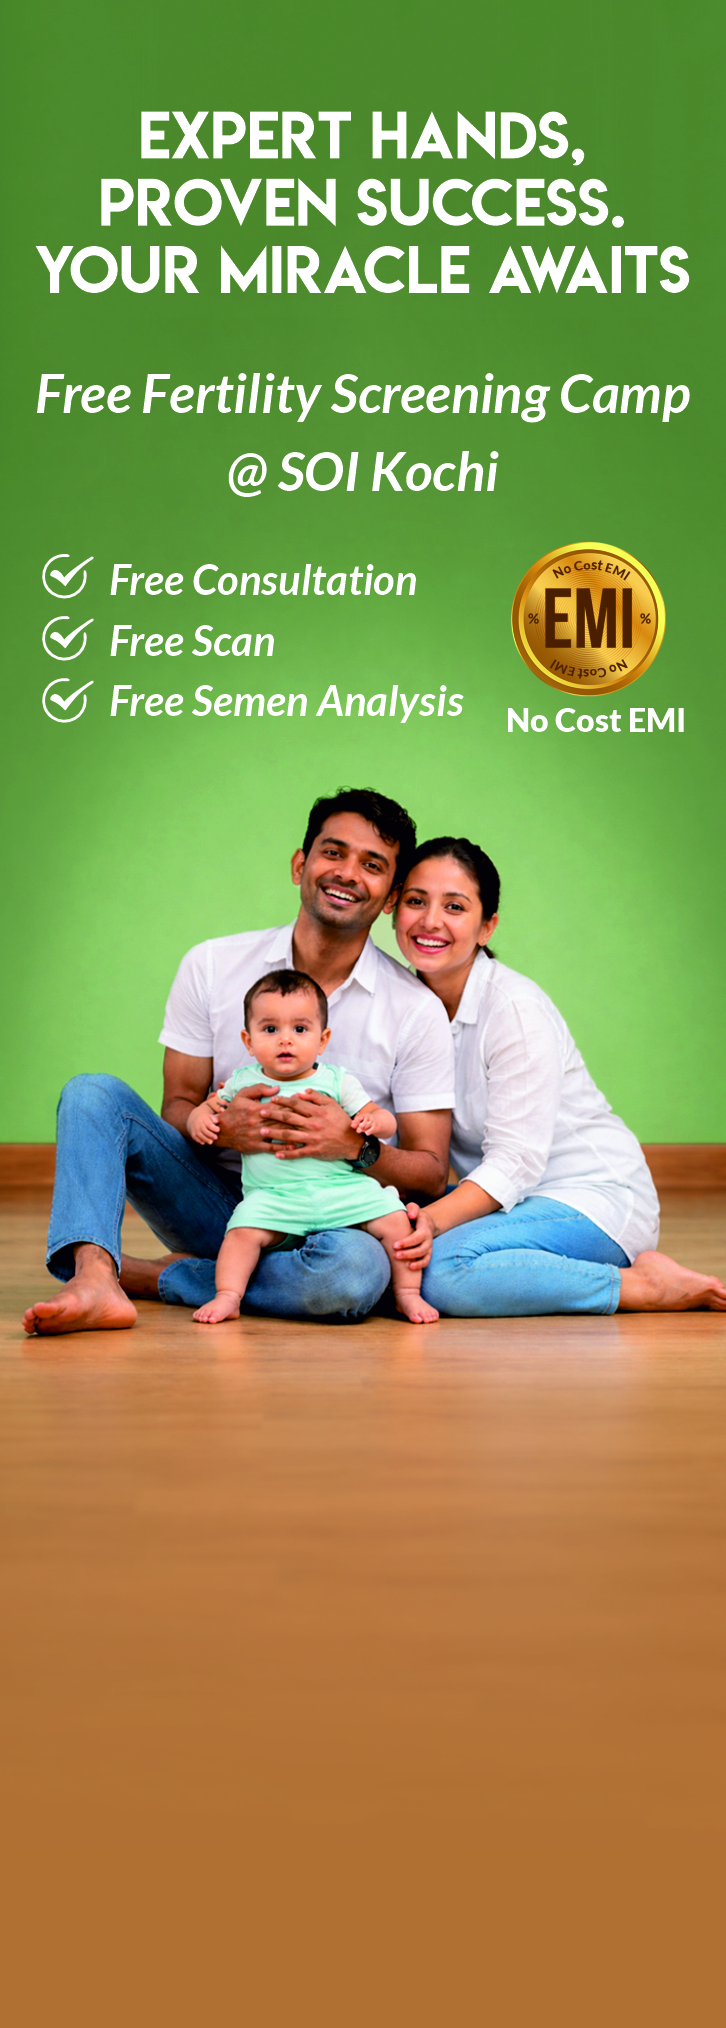
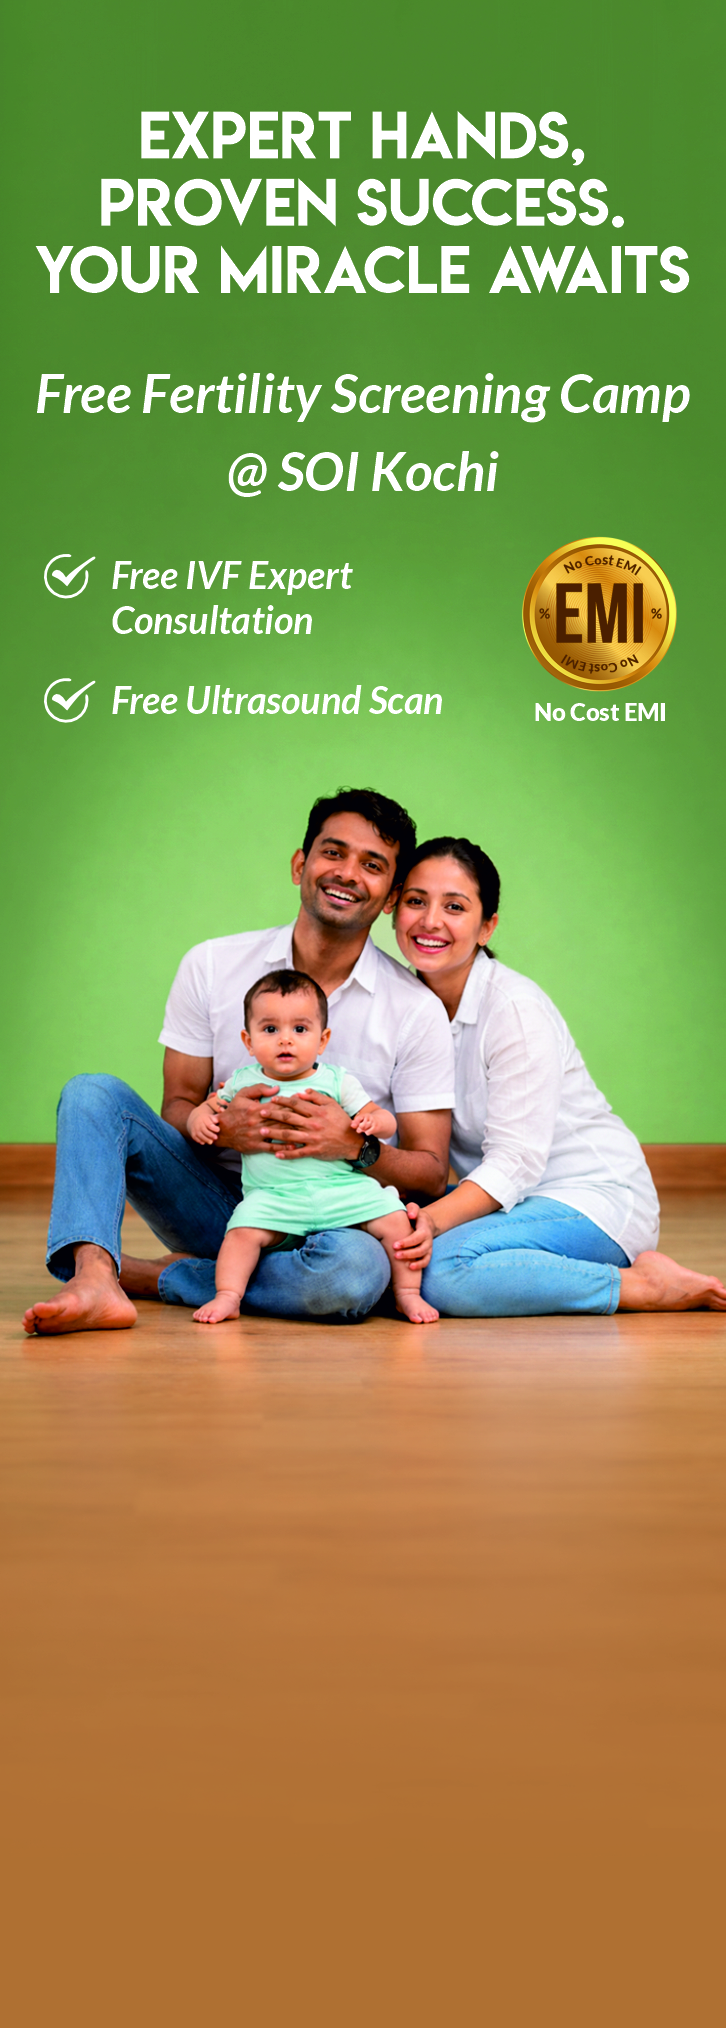
bn vbn

Changed region(s): [[0.1515, 0.2796, 0.6364, 0.3728], [0.697, 0.2485, 0.9394, 0.3728], [0.0606, 0.2796, 0.1212, 0.3728]]

diff --git a/app/best-ivf-clinic-in-delhi/delhicomponents/PackageIncludes.tsx b/app/best-ivf-clinic-in-delhi/delhicomponents/PackageIncludes.tsx
@@ -13,41 +13,41 @@ export default function PackageIncludes() {
         {/* Mobile: Single Card with both sections */}
         <div className="block md:hidden max-w-5xl mx-auto">
           <div className="bg-white rounded-2xl shadow-md p-8">
-            {/* Free Fertility Screening Camp Section */}
+            {/* Expert Fertility Screening Camp Section */}
             <div className="mb-8">
               <h3 className="text-xl font-semibold text-gray-900 mb-6">
-                Free Fertility Screening Camp
+                Expert Fertility Screening Camp
               </h3>
               <div className="space-y-4">
-                {/* Free Consultation */}
+                {/* Expert Consultation */}
                 <div className="flex items-center gap-4">
                   <div className="flex-shrink-0">
                     <Image
                       src="/gads/assets/image/icons/Tick 1.svg"
-                      alt="Free Consultation"
+                      alt="Expert Consultation"
                       width={48}
                       height={48}
                       className="w-12 h-12"
                     />
                   </div>
                   <span className="text-lg text-gray-700 font-medium">
-                    Free Consultation
+                    Expert Consultation
                   </span>
                 </div>
 
-                {/* Free Scan */}
+                {/* Expert Scan */}
                 <div className="flex items-center gap-4">
                   <div className="flex-shrink-0">
                     <Image
                       src="/gads/assets/image/icons/Tick 1.svg"
-                      alt="Free Scan"
+                      alt="Expert Scan"
                       width={48}
                       height={48}
                       className="w-12 h-12"
                     />
                   </div>
                   <span className="text-lg text-gray-700 font-medium">
-                    Free Scan
+                    Expert Scan
                   </span>
                 </div>
               </div>
@@ -75,21 +75,21 @@ export default function PackageIncludes() {
                   </span>
                 </div>
 
-                {/* Free Semen Analysis */}
-                <div className="flex items-center gap-4">
+                {/* Expert Semen Analysis */}
+                {/* <div className="flex items-center gap-4">
                   <div className="flex-shrink-0">
                     <Image
                       src="/gads/assets/image/icons/Tick 1.svg"
-                      alt="Free Semen Analysis"
+                      alt="Expert Semen Analysis"
                       width={48}
                       height={48}
                       className="w-12 h-12"
                     />
                   </div>
                   <span className="text-lg text-gray-700 font-medium">
-                    Free Semen Analysis
+                    Expert Semen Analysis
                   </span>
-                </div>
+                </div> */}
               </div>
             </div>
           </div>
@@ -97,48 +97,48 @@ export default function PackageIncludes() {
 
         {/* Desktop: Two Separate Cards */}
         <div className="hidden md:grid grid-cols-2 gap-24 max-w-5xl mx-auto">
-          {/* Left Card - Free Fertility Screening Camp */}
+          {/* Left Card - Expert Fertility Screening Camp */}
           <div className="bg-white rounded-2xl shadow-md p-8">
             <h3 className="text-xl text-center font-semibold text-gray-900 mb-6">
-              Free Fertility Screening Camp
+              Expert Fertility Screening Camp
             </h3>
             <div className="space-y-6">
-              {/* Free Consultation */}
+              {/* Expert Consultation */}
               <div className="flex flex-col items-center gap-3">
                 <div className="flex-shrink-0">
                   <Image
                     src="/gads/assets/image/icons/Tick 1.svg"
-                    alt="Free Consultation"
+                    alt="Expert Consultation"
                     width={80}
                     height={80}
                     className="w-30 h-30"
                   />
                 </div>
                 <span className="text-lg text-gray-700 font-medium">
-                  Free Consultation
+                  Expert Consultation
                 </span>
               </div>
 
-              {/* Free Scan */}
+              {/* Expert Scan */}
               <div className="flex flex-col items-center gap-3">
                 <div className="flex-shrink-0">
                   <Image
                     src="/gads/assets/image/icons/Tick 1.svg"
-                    alt="Free Scan"
+                    alt="Expert Scan"
                     width={80}
                     height={80}
                     className="w-30 h-30"
                   />
                 </div>
                 <span className="text-lg text-gray-700 font-medium">
-                  Free Scan
+                  Expert Scan
                 </span>
               </div>
             </div>
           </div>
 
           {/* Right Card - Special Benefits */}
-          <div className="bg-white rounded-2xl shadow-md p-8">
+          <div className="bg-white rounded-2xl shadow-md p-8 flex flex-col items-center justify-center">
             <h3 className="text-xl text-center font-semibold text-gray-900 mb-6">
               Special Benefits
             </h3>
@@ -159,21 +159,21 @@ export default function PackageIncludes() {
                 </span>
               </div>
 
-              {/* Free Semen Analysis */}
-              <div className="flex flex-col items-center gap-3">
+              {/* Expert Semen Analysis */}
+              {/* <div className="flex flex-col items-center gap-3">
                 <div className="flex-shrink-0">
                   <Image
                     src="/gads/assets/image/icons/Tick 1.svg"
-                    alt="Free Semen Analysis"
+                    alt="Expert Semen Analysis"
                     width={80}
                     height={80}
                     className="w-30 h-30"
                   />
                 </div>
                 <span className="text-lg text-gray-700 font-medium">
-                  Free Semen Analysis
+                  Expert Semen Analysis
                 </span>
-              </div>
+              </div> */}
             </div>
           </div>
         </div>
